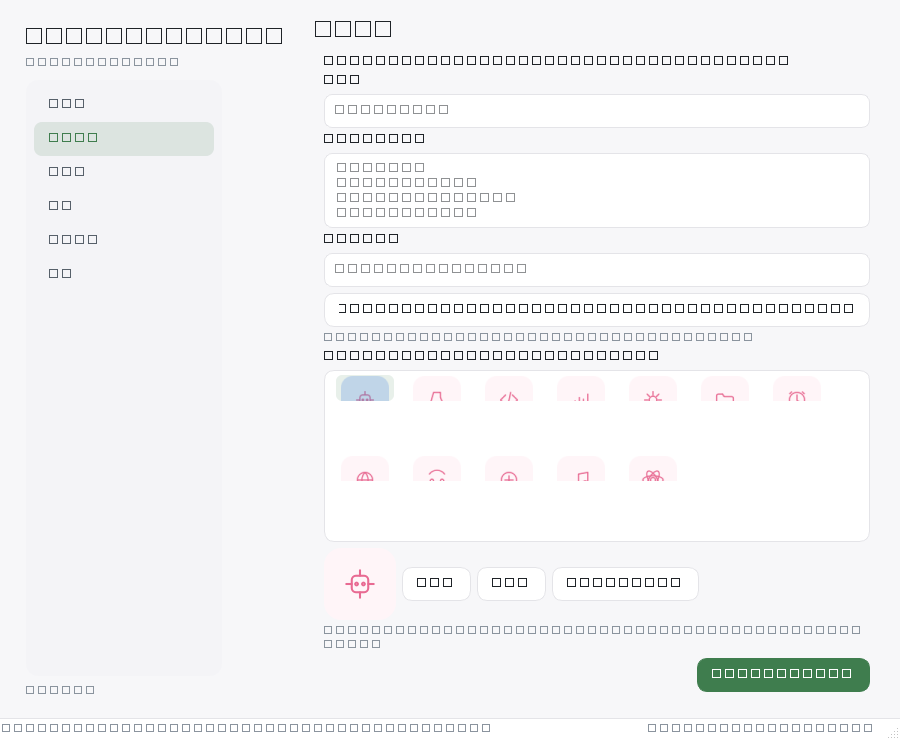
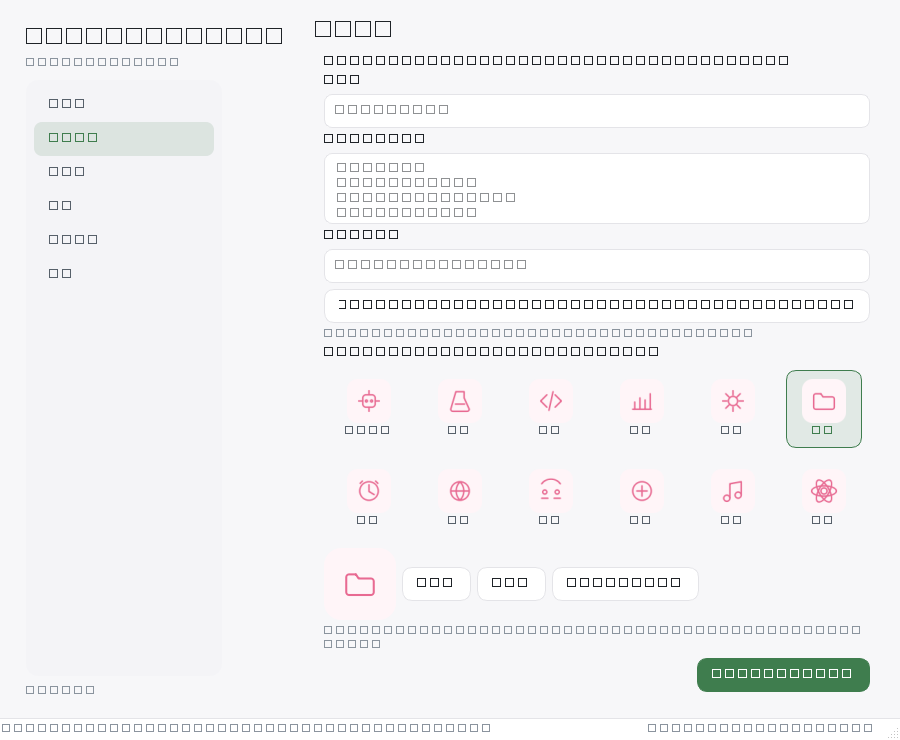
fix(UI): 图标选择器改为确定性网格（修复 QListView IconMode 的裁切与留白）+ 相关测试断言同步

diff --git a/app/ui/widgets/icon_grid.py b/app/ui/widgets/icon_grid.py
@@ -1,0 +1,95 @@
+"""图标选择网格（M13）：用固定列数的 ``QToolButton`` 网格替代 ``QListView(IconMode)``。
+
+为什么换：``QListView`` 的 IconMode 在宽窗口下会把所有图标挤成一行并按 gridSize 裁切
+（实测出现「图标上下被切、标签看不见、下方留一大片空白」）。网格按钮是确定性的：
+列数固定、格子尺寸固定、选中态清晰，不需要滚动也永不裁切。
+"""
+
+from __future__ import annotations
+
+from pathlib import Path
+
+from PySide6.QtCore import QSize, Qt, Signal
+from PySide6.QtWidgets import QButtonGroup, QGridLayout, QToolButton, QWidget
+
+from ...core.models import CourseIcon
+from ..icon_render import course_icon_pixmap
+
+
+class IconGrid(QWidget):
+    """固定列数的课程图标选择网格。"""
+
+    selected_changed = Signal(str)
+
+    def __init__(self, *, columns: int = 6, icon_size: int = 44, parent=None) -> None:
+        super().__init__(parent)
+        self.columns = columns
+        self.icon_size = icon_size
+        self._grid = QGridLayout(self)
+        self._grid.setContentsMargins(0, 0, 0, 0)
+        self._grid.setSpacing(8)
+        self._group = QButtonGroup(self)
+        self._group.setExclusive(True)
+        self._buttons: dict[str, QToolButton] = {}
+        self._current = ""
+
+    # --- 装载 -----------------------------------------------------------
+    def set_icons(self, choices: list[tuple[str, str]], *, color: str = "#E86A92", bg: str = "#FFF5F8", current: str | None = None) -> None:
+        """``choices`` 为 (id, 中文名) 列表；按 ``columns`` 排列成网格。"""
+        self._clear()
+        for index, (preset_id, label) in enumerate(choices):
+            icon = CourseIcon(kind="preset", value=preset_id, color=color, bg=bg)
+            button = QToolButton(self)
+            button.setCheckable(True)
+            button.setAutoRaise(True)
+            button.setToolButtonStyle(Qt.ToolButtonStyle.ToolButtonTextUnderIcon)
+            button.setIconSize(QSize(self.icon_size, self.icon_size))
+            button.setIcon(course_icon_pixmap(Path("."), icon, size=self.icon_size + 20, padding=8))
+            button.setText(label)
+            button.setToolTip(f"{label}（{preset_id}）")
+            button.setProperty("iconId", preset_id)
+            button.setMinimumSize(QSize(76, 78))
+            button.clicked.connect(lambda _checked=False, value=preset_id: self.select(value))
+            self._group.addButton(button)
+            self._grid.addWidget(button, index // self.columns, index % self.columns)
+            self._buttons[preset_id] = button
+
+        for column in range(self.columns):
+            self._grid.setColumnStretch(column, 1)
+        target = current if current in self._buttons else (choices[0][0] if choices else "")
+        if target:
+            self.select(target)
+
+    def _clear(self) -> None:
+        for button in self._buttons.values():
+            self._group.removeButton(button)
+            button.setParent(None)
+            button.deleteLater()
+        self._buttons.clear()
+        self._current = ""
+
+    # --- 选择 -----------------------------------------------------------
+    def select(self, icon_id: str) -> None:
+        if icon_id not in self._buttons:
+            return
+        self._buttons[icon_id].setChecked(True)
+        self._current = icon_id
+        self.selected_changed.emit(icon_id)
+
+    def selected_id(self) -> str:
+        return self._current
+
+    def ids(self) -> list[str]:
+        return list(self._buttons)
+
+    def label_of(self, icon_id: str) -> str:
+        button = self._buttons.get(icon_id)
+        return button.text() if button is not None else icon_id
+
+    def rows(self) -> int:
+        if not self._buttons:
+            return 0
+        return (len(self._buttons) + self.columns - 1) // self.columns
+
+    def height_hint(self) -> int:
+        return max(1, self.rows()) * 86 + 4

diff --git a/app/ui/pages/wizard_page.py b/app/ui/pages/wizard_page.py
@@ -29,6 +29,7 @@ from PySide6.QtWidgets import (
 from ...core.cancel import CancellationToken
 from ...core.models import CourseIcon, CourseOutline
 from ...services.outline_service import CreateResult, OutlineDraft, OutlineService
+from ..widgets.icon_grid import IconGrid
 from ..widgets.outline_tree import OutlineTreeWidget
 
 
@@ -175,16 +176,10 @@ class WizardPage(QWidget):
         layout.addWidget(self.material_label)
 
         layout.addWidget(QLabel("课程图标（选预设 / 换颜色 / 或让 AI 生成）"))
-        self.icon_list = QListWidget()
-        self.icon_list.setViewMode(QListView.ViewMode.IconMode)
-        self.icon_list.setIconSize(QSize(48, 48))
-        self.icon_list.setGridSize(QSize(72, 80))
-        self.icon_list.setMovement(QListView.Movement.Static)
-        self.icon_list.setWrapping(True)
-        self.icon_list.setResizeMode(QListView.ResizeMode.Adjust)
-        self.icon_list.setFixedHeight(172)
-        self.icon_list.currentRowChanged.connect(lambda *_: self._refresh_icon_preview())
-        layout.addWidget(self.icon_list)
+        self.icon_grid = IconGrid(columns=6)
+        self.icon_grid.setMinimumHeight(self.icon_grid.height_hint())
+        self.icon_grid.selected_changed.connect(lambda *_: self._refresh_icon_preview())
+        layout.addWidget(self.icon_grid)
 
         icon_row = QHBoxLayout()
         self.icon_preview = QLabel()
@@ -343,25 +338,21 @@ class WizardPage(QWidget):
 
     # --- 图标 -----------------------------------------------------------
     def _current_icon(self) -> CourseIcon:
-        item = self.icon_list.currentItem()
-        preset_id = str(item.data(Qt.ItemDataRole.UserRole)) if item is not None else "general"
+        preset_id = self.icon_grid.selected_id() or "general"
         return CourseIcon(kind="preset", value=preset_id, color=self._icon_color, bg=self._icon_bg)
 
     def _rebuild_icon_list(self) -> None:
+        """重建图标网格（固定列数，永不裁切）。"""
         from ...services import icon_service
-        from ..icon_render import course_icon_pixmap
 
-        self.icon_list.blockSignals(True)
-        self.icon_list.clear()
-        for preset_id, label in icon_service.preset_choices():
-            icon = CourseIcon(kind="preset", value=preset_id, color=self._icon_color, bg=self._icon_bg)
-            item = QListWidgetItem(course_icon_pixmap(Path("."), icon, size=64), label)
-            item.setData(Qt.ItemDataRole.UserRole, preset_id)
-            item.setTextAlignment(Qt.AlignmentFlag.AlignHCenter)
-            self.icon_list.addItem(item)
-        self.icon_list.blockSignals(False)
-        if self.icon_list.count():
-            self.icon_list.setCurrentRow(0)
+        current = self.icon_grid.selected_id() or "general"
+        self.icon_grid.set_icons(
+            icon_service.preset_choices(),
+            color=self._icon_color,
+            bg=self._icon_bg,
+            current=current,
+        )
+        self.icon_grid.setMinimumHeight(self.icon_grid.height_hint())
         self._refresh_icon_preview()
 
     def _refresh_icon_preview(self) -> None:

diff --git a/app/ui/widgets/icon_picker_dialog.py b/app/ui/widgets/icon_picker_dialog.py
@@ -26,6 +26,7 @@ from PySide6.QtWidgets import (
 from ...core.models import CourseIcon
 from ...services.icon_service import IconService, preset_choices, tint_svg
 from ..icon_render import course_icon_pixmap, svg_to_pixmap
+from .icon_grid import IconGrid
 
 
 class _Signals(QObject):
@@ -79,15 +80,10 @@ class IconPickerDialog(QDialog):
         self.resize(560, 420)
         layout = QVBoxLayout(self)
 
-        self.icon_list = QListWidget()
-        self.icon_list.setViewMode(QListView.ViewMode.IconMode)
-        self.icon_list.setIconSize(QSize(48, 48))
-        self.icon_list.setGridSize(QSize(76, 84))
-        self.icon_list.setMovement(QListView.Movement.Static)
-        self.icon_list.setWrapping(True)
-        self.icon_list.setResizeMode(QListView.ResizeMode.Adjust)
-        self.icon_list.currentRowChanged.connect(lambda *_: self._refresh_preview())
-        layout.addWidget(self.icon_list, 1)
+        self.icon_grid = IconGrid(columns=6)
+        self.icon_grid.setMinimumHeight(self.icon_grid.height_hint())
+        self.icon_grid.selected_changed.connect(lambda *_: self._refresh_preview())
+        layout.addWidget(self.icon_grid, 1)
 
         row = QHBoxLayout()
         self.preview = QLabel()
@@ -122,27 +118,14 @@ class IconPickerDialog(QDialog):
 
     # --- 列表与预览 -----------------------------------------------------
     def _rebuild_list(self, *, base_value: str | None = None) -> None:
-        self.icon_list.blockSignals(True)
-        self.icon_list.clear()
-        for preset_id, label in preset_choices():
-            icon = CourseIcon(kind="preset", value=preset_id, color=self._color, bg=self._bg)
-            item = QListWidgetItem(course_icon_pixmap(Path("."), icon, size=64), label)
-            item.setData(Qt.ItemDataRole.UserRole, preset_id)
-            item.setTextAlignment(Qt.AlignmentFlag.AlignHCenter)
-            self.icon_list.addItem(item)
-        self.icon_list.blockSignals(False)
-        target = base_value or "general"
-        for row in range(self.icon_list.count()):
-            if self.icon_list.item(row).data(Qt.ItemDataRole.UserRole) == target:
-                self.icon_list.setCurrentRow(row)
-                break
-        else:
-            self.icon_list.setCurrentRow(0)
+        self.icon_grid.set_icons(
+            preset_choices(), color=self._color, bg=self._bg, current=base_value or "general"
+        )
+        self.icon_grid.setMinimumHeight(self.icon_grid.height_hint())
         self._refresh_preview()
 
     def _current_icon(self) -> CourseIcon:
-        item = self.icon_list.currentItem()
-        value = str(item.data(Qt.ItemDataRole.UserRole)) if item is not None else "general"
+        value = self.icon_grid.selected_id() or "general"
         return CourseIcon(kind="preset", value=value, color=self._color, bg=self._bg)
 
     def _refresh_preview(self) -> None:

diff --git a/app/ui/theme/qss.py b/app/ui/theme/qss.py
@@ -284,6 +284,18 @@ QSplitter::handle {{ background-color: {c.border}; }}
 QSplitter::handle:horizontal {{ width: 1px; }}
 QToolTip {{ background-color: {c.surface}; color: {c.text}; border: 1px solid {c.border}; padding: 4px 6px; }}
 QCheckBox, QRadioButton {{ spacing: 7px; }}
+
+/* 图标选择网格：选中态用主色描边 + 主色浅底 */
+QToolButton {{
+  border: 1px solid transparent;
+  border-radius: 10px;
+  padding: 6px 4px;
+  color: {c.text_dim};
+  background-color: transparent;
+  font-size: {small}px;
+}}
+QToolButton:hover {{ background-color: {c.surface_alt}; border-color: {c.border}; color: {c.text}; }}
+QToolButton:checked {{ background-color: {tint(0.12)}; border-color: {c.primary}; color: {c.primary}; font-weight: 600; }}
 /* 阅读区宽度（§11.1：正文阅读宽度可调，默认 {width}px） */
 QTextBrowser[role="reading"], QWidget[role="reading"] {{ max-width: {width}px; }}
 """

diff --git a/tests/unit/test_m8_icons.py b/tests/unit/test_m8_icons.py
@@ -224,8 +224,9 @@ def test_wizard_icon_picker_lists_presets(qtbot, tmp_path: Path) -> None:
     page = WizardPage(service)
     qtbot.addWidget(page)
 
-    assert page.icon_list.count() == len(preset_choices())
-    page.icon_list.setCurrentRow(3)
+    assert len(page.icon_grid.ids()) == len(preset_choices())
+    assert page.icon_grid.rows() >= 2  # 固定列数网格，永不裁切
+    page.icon_grid.select(page.icon_grid.ids()[3])
     icon = page._current_icon()
     assert icon.kind == "preset" and icon.value in preset_ids()
     assert page.icon_preview.pixmap() is not None

diff --git a/tests/unit/test_m9_cards.py b/tests/unit/test_m9_cards.py
@@ -133,8 +133,9 @@ def test_icon_picker_applies_preset(qtbot, tmp_path: Path) -> None:
     dialog = IconPickerDialog(course_dir=course, course_name="ATM 使用指南")
     qtbot.addWidget(dialog)
 
-    assert dialog.icon_list.count() >= 12
-    dialog.icon_list.setCurrentRow(2)
+    assert len(dialog.icon_grid.ids()) >= 12
+    assert dialog.icon_grid.rows() >= 2
+    dialog.icon_grid.select(dialog.icon_grid.ids()[2])
     # 不点击取色器按钮：QColorDialog.getColor 是模态的，自动化里会一直阻塞
     assert dialog.color_button.text() == "主色…"
 
